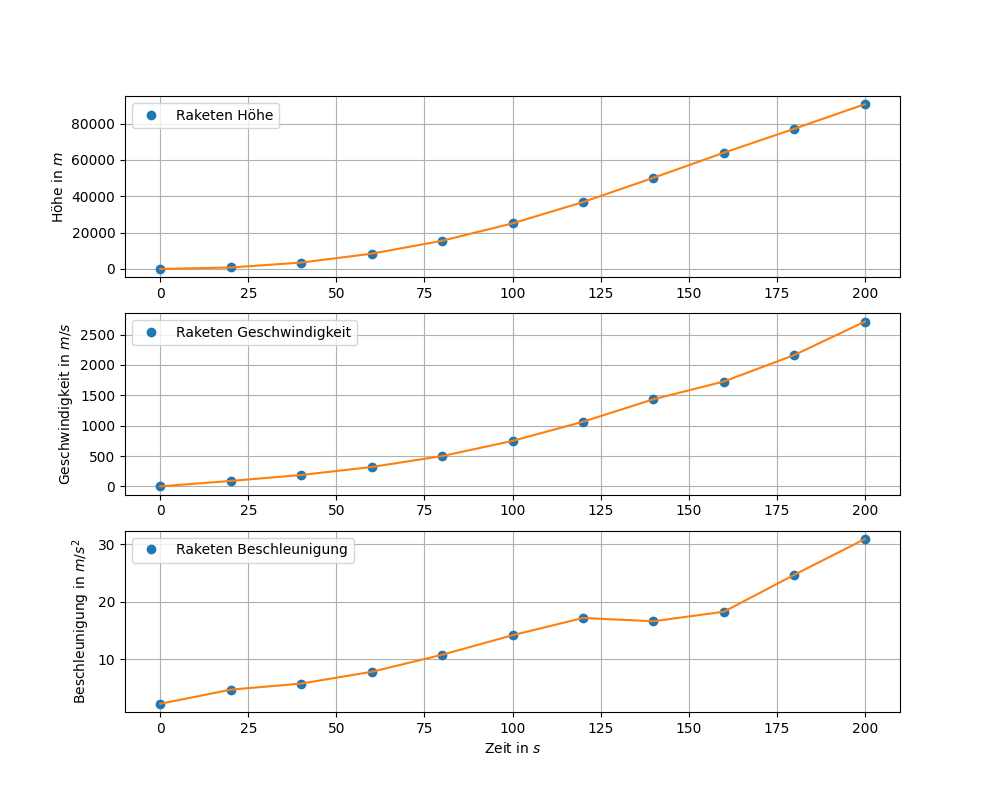
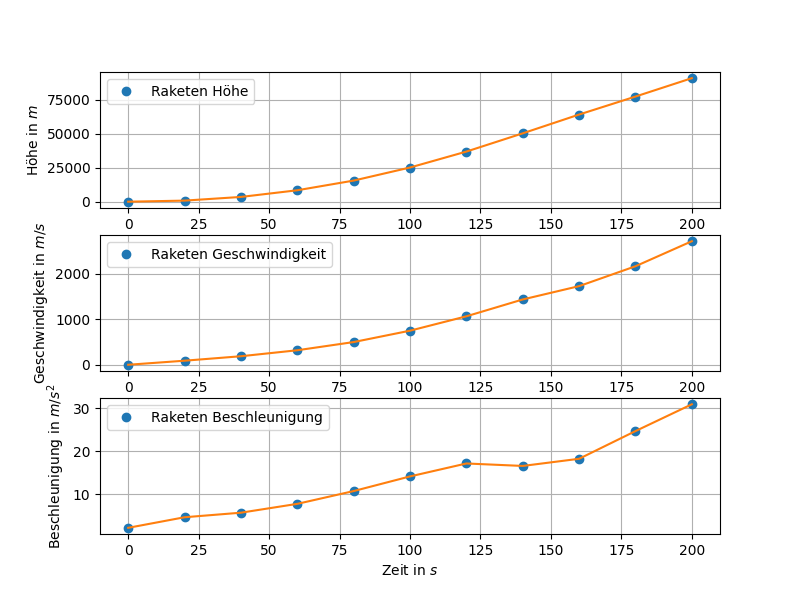
changed scaling

diff --git a/Code/Approximation_Ableitung/Rocket.py b/Code/Approximation_Ableitung/Rocket.py
@@ -26,7 +26,7 @@ for i in range(len(rt)):
         rocket_plotting_velocity.append(rv[i])
         rocket_plotting_acceleration.append(ra[i])
 
-fig, (ax1, ax2, ax3) = plt.subplots(3, 1, figsize=(10, 8))
+fig, (ax1, ax2, ax3) = plt.subplots(3, 1, figsize=(8, 6))
 
 ax1.plot(rocket_plotting_time, rocket_plotting_height, 'o', label='Raketen Höhe')
 ax1.plot(rocket_plotting_time, rocket_plotting_height)
